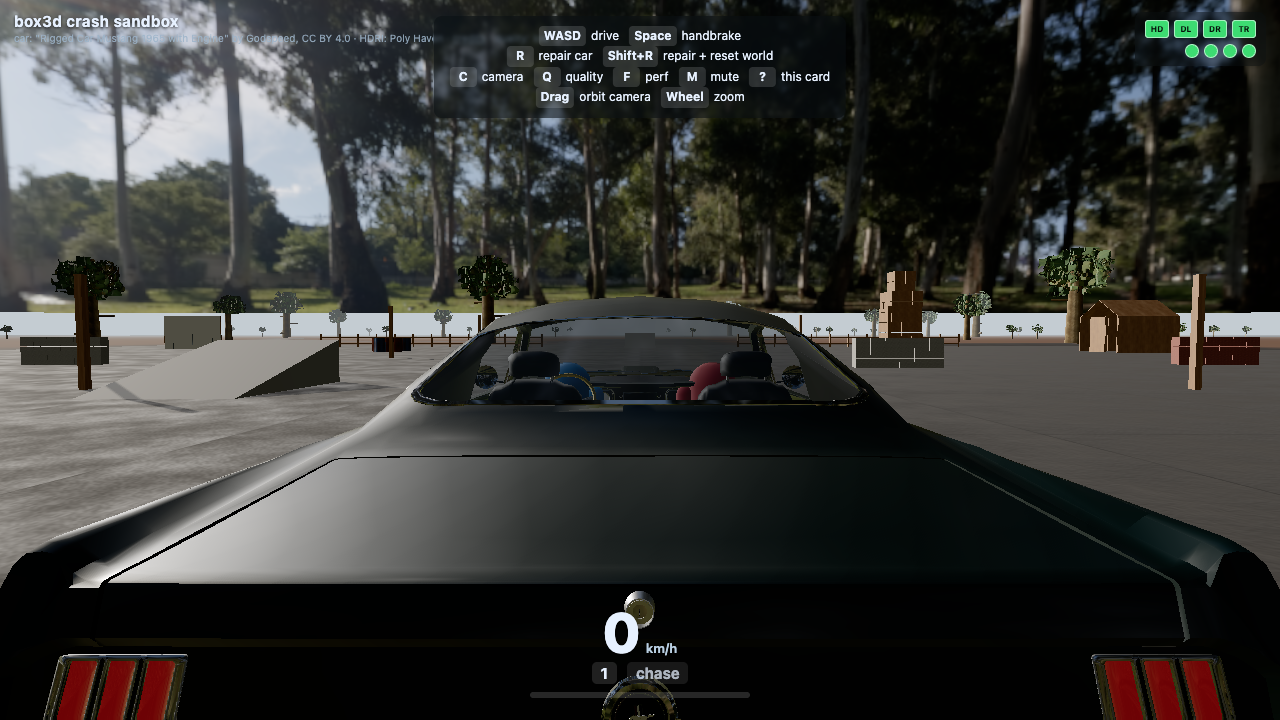
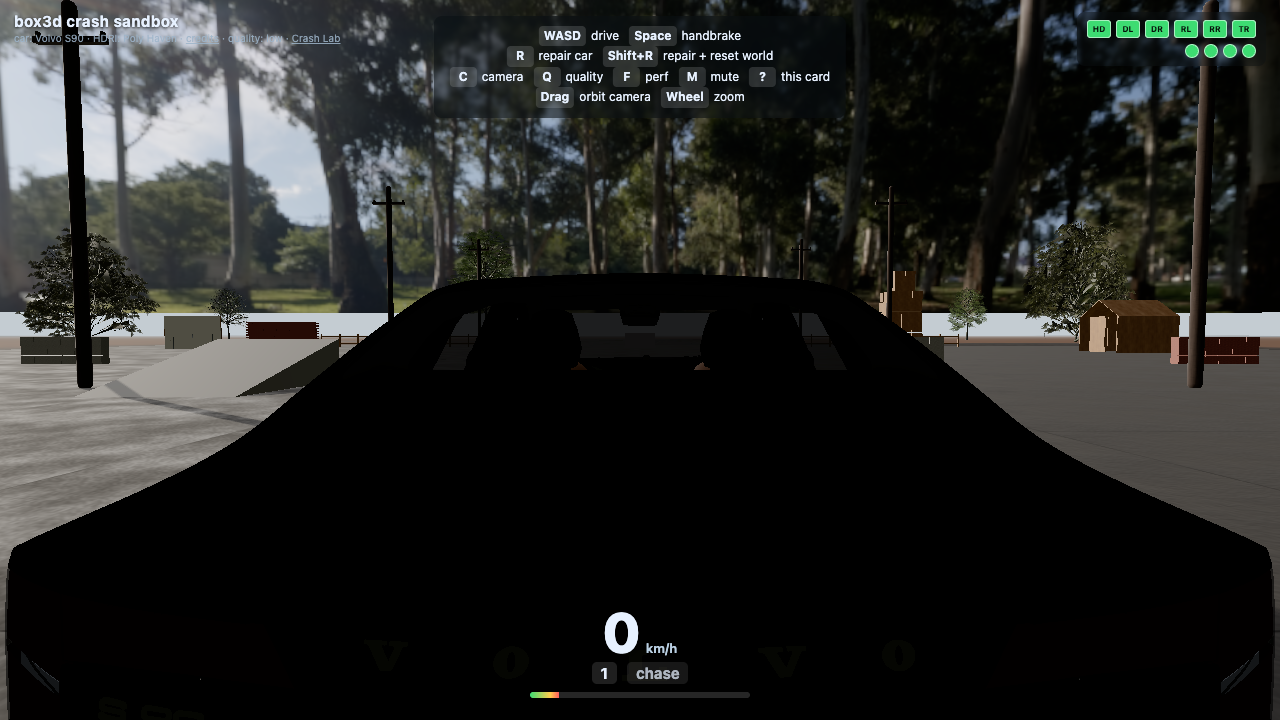
Camera: chase cam no longer buries itself in the cabin on fresh boot
The occlusion filter's car-owned id set predated RUN 5: glass panes
(12-13), crush segments (14-22) and cores (23-25) were missing, so the
chase camera's first cast hit the car's OWN rear window/trunk segments,
clamped to minDistanceM (1.5m -- inside the cabin), and re-clamped every
frame -- a fresh boot rendered black interior backfaces until the player
left chase mode (read as "car texture never loads"). Adds those ids plus
the cardetail 88M body range to the filter. Verified headless: boot now
seats the camera at the nominal ~6m-back chase pose, occluded=false, and
a real wall still occludes and recovers. Also widens the verify script's
ready budget (cold SwiftShader boot measures ~28-30s vs the old 30s cap).

diff --git a/game/src/camera/occlusion.ts b/game/src/camera/occlusion.ts
@@ -26,7 +26,8 @@
 // exploding barrels -- keeps the default all-bits filter and blocks normally.
 
 import type { Vec3, World } from '../../../src/ts/index.js';
-import { CAR_ENTITY_ID } from '../vehicle/vehicle';
+import { CAR_ENTITY_ID, GLASS_ENTITY_ID } from '../vehicle/vehicle';
+import { SEGMENT_ENTITY_ID_SET } from '../vehicle/segments';
 import { PANEL_ENTITY_ID } from '../damage/panels';
 
 /** occupants/physics.ts's entityIdFor(seatIndex, partIndex) = 1000 + seatIndex*100 + partIndex, for
@@ -34,18 +35,39 @@ import { PANEL_ENTITY_ID } from '../damage/panels';
 const OCCUPANT_ENTITY_ID_MIN = 1000;
 const OCCUPANT_ENTITY_ID_MAX = 1399;
 
+/** world/features/cardetail's on-car detail bodies (mirrors/wipers/badges) -- tuning.ts's
+ * CARDETAIL_JOINT_ID_BASE (88.1M) / CARDETAIL_BODY_ID_BASE (88.2M). Same documented-range treatment
+ * as occupants above (importing a world/features module from camera/** would cross the ownership
+ * boundary the other way). */
+const CARDETAIL_ENTITY_ID_MIN = 88_000_000;
+const CARDETAIL_ENTITY_ID_MAX = 88_999_999;
+
 const CAR_OWNED_ENTITY_IDS: ReadonlySet<number> = new Set<number>([
 	CAR_ENTITY_ID.chassis,
 	...Object.values(CAR_ENTITY_ID.wheel),
 	...Object.values(PANEL_ENTITY_ID),
+	// Glass panes (12-13) + crush segments/cores (14-25): every one of these sits ON the cast's path
+	// out of the cabin (the rear window and trunk segments squarely so for the default 6m-back chase
+	// offset). Before these were filtered, the FIRST chase frame's cast hit the car's own rear
+	// window/trunk, clamped the allowed distance to minDistanceM (1.5m -- inside the cabin), and
+	// KEPT re-clamping it every subsequent frame -- so a fresh boot rendered the car's own black
+	// interior backfaces until the player toggled away from chase mode ("car texture never loads on
+	// fresh start", 2026-08-05).
+	...Object.values(GLASS_ENTITY_ID),
+	...SEGMENT_ENTITY_ID_SET,
 ]);
 
 /** True if `id` (a cast/hit-event entityId, i.e. Body/Shape userData) belongs to the car itself --
- * chassis, wheels, damage panels (attached or freshly detached), or a seated/ejected occupant. Zero
- * (the default userData for untagged bodies, e.g. verify/spawnTestWall's test wall, world terrain,
- * trees, buildings, exploding barrels) is never in this set. */
+ * chassis, wheels, damage panels (attached or freshly detached), glass panes, crush segments/cores,
+ * on-car detail parts (mirrors/wipers), or a seated/ejected occupant. Zero (the default userData for
+ * untagged bodies, e.g. verify/spawnTestWall's test wall, world terrain, trees, buildings, exploding
+ * barrels) is never in this set. */
 export function isCarOwnedEntityId(id: number): boolean {
-	return CAR_OWNED_ENTITY_IDS.has(id) || (id >= OCCUPANT_ENTITY_ID_MIN && id <= OCCUPANT_ENTITY_ID_MAX);
+	return (
+		CAR_OWNED_ENTITY_IDS.has(id) ||
+		(id >= OCCUPANT_ENTITY_ID_MIN && id <= OCCUPANT_ENTITY_ID_MAX) ||
+		(id >= CARDETAIL_ENTITY_ID_MIN && id <= CARDETAIL_ENTITY_ID_MAX)
+	);
 }
 
 export interface OcclusionCastOptions {
